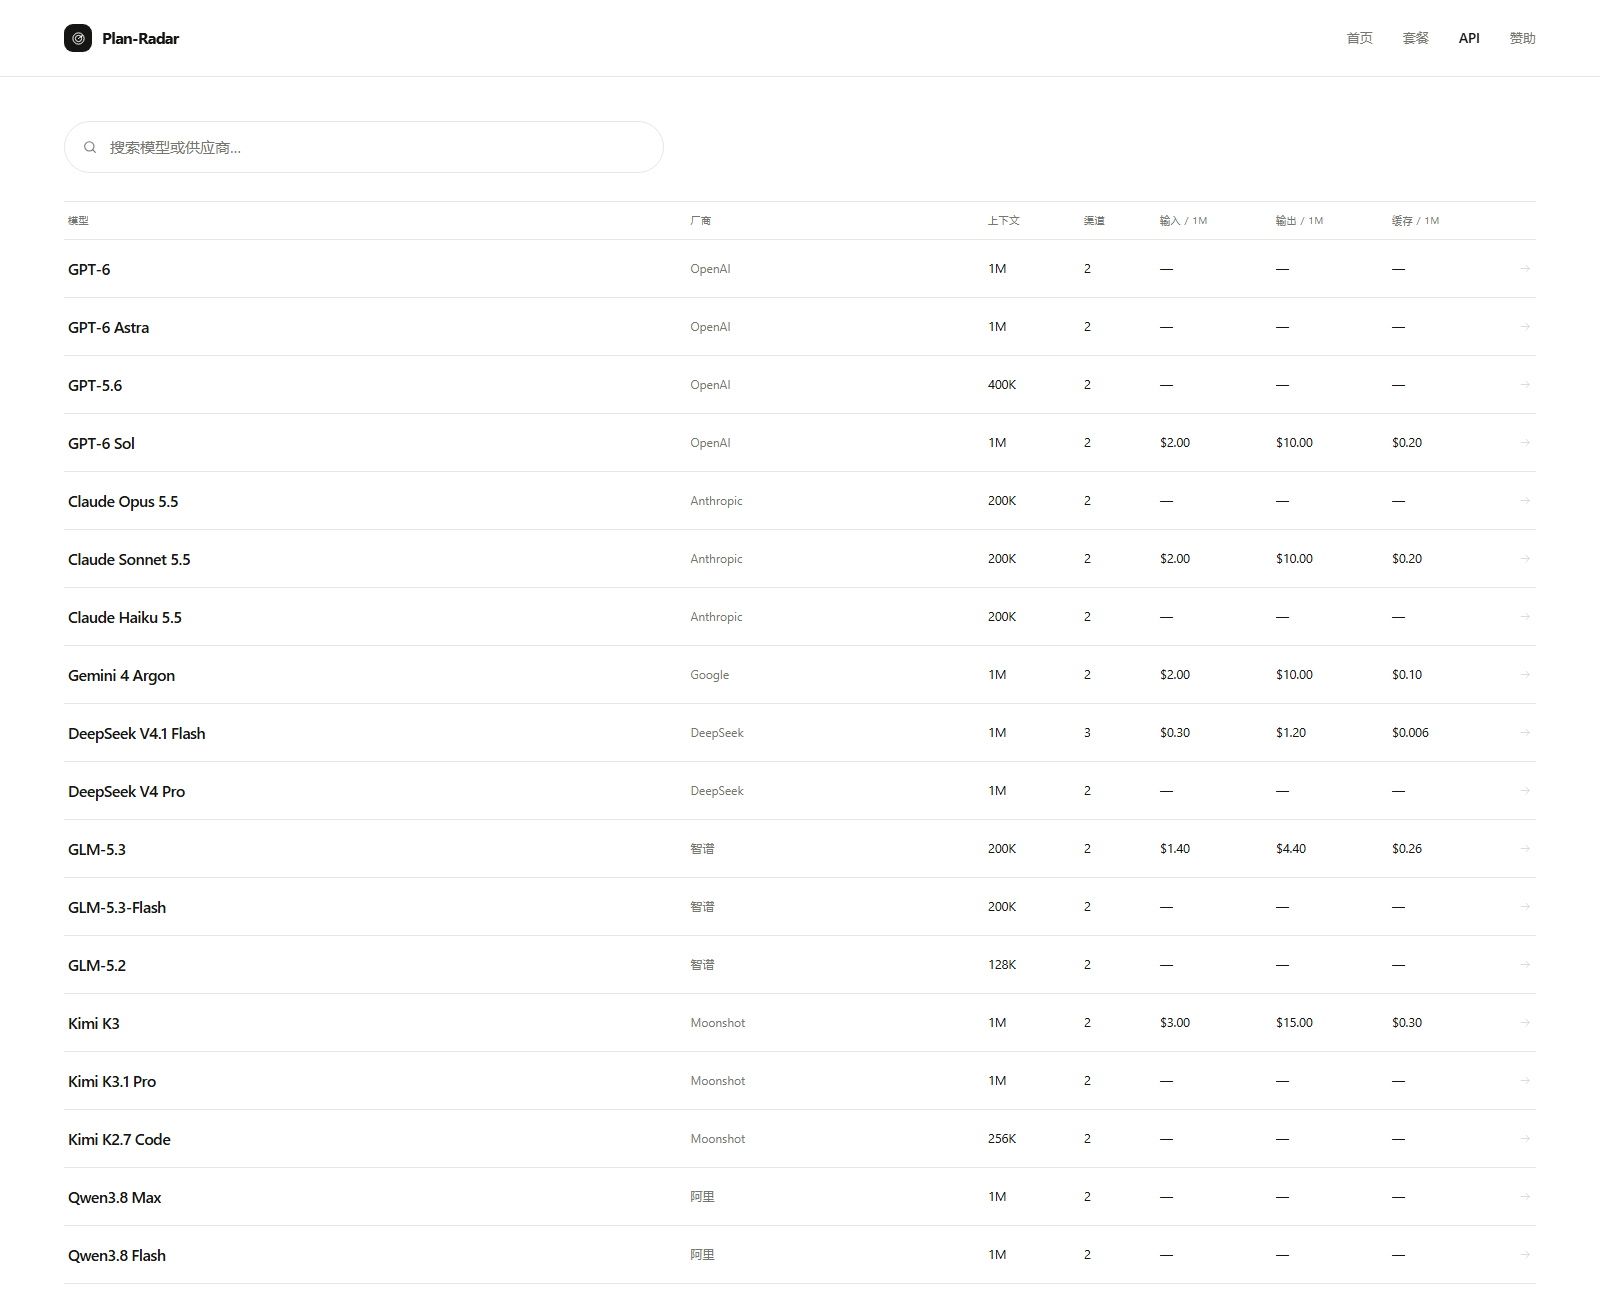
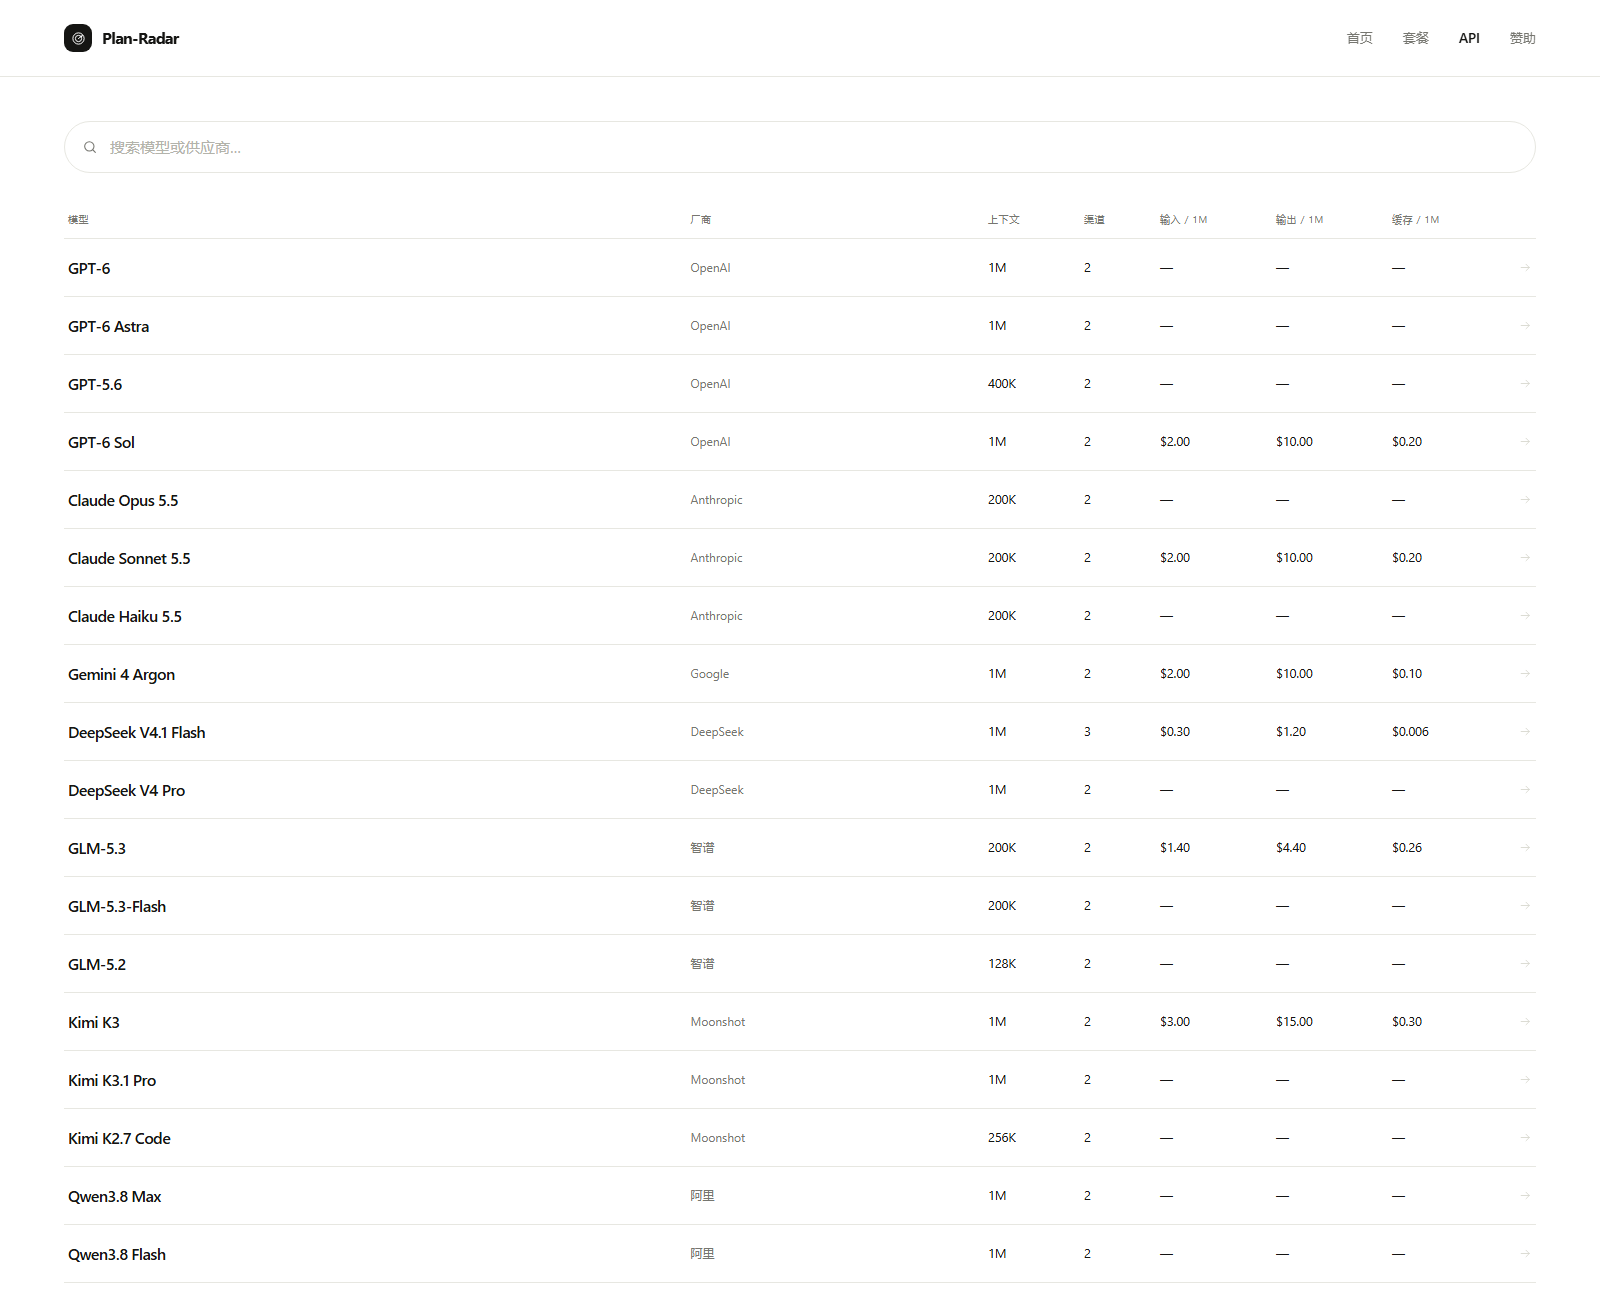
fix: table search and line

diff --git a/app/globals.css b/app/globals.css
@@ -611,6 +611,7 @@ h1, h2, h3, p { margin: 0; }
   transition: border-color 0.18s ease;
 }
 .catalog-search:focus-within { border-color: var(--ink); }
+.catalog-search-wide { width: 100%; max-width: none; }
 .catalog-search input {
   flex: 1;
   min-width: 0;
@@ -621,7 +622,7 @@ h1, h2, h3, p { margin: 0; }
   font-size: 15px;
   color: var(--ink);
 }
-.catalog-search input::placeholder { color: var(--muted); }
+.catalog-search input::placeholder { color: #b3b3ab; }
 .catalog-search input::-webkit-search-cancel-button { display: none; }
 .catalog-clear {
   display: grid;
@@ -699,7 +700,7 @@ h1, h2, h3, p { margin: 0; }
 }
 
 .model-table-wrap { margin-top: 28px; overflow-x: auto; }
-.model-table { min-width: 860px; border-top: 1px solid var(--line); }
+.model-table { min-width: 860px; }
 .model-table-plans { min-width: 860px; }
 .model-table-head,
 .model-row {

diff --git a/components/ModelTable.tsx b/components/ModelTable.tsx
@@ -33,7 +33,7 @@ export function ModelTable({ rows, mode }: ModelTableProps) {
   return (
     <>
       <div className="catalog-top catalog-top-left">
-        <div className="catalog-search">
+        <div className="catalog-search catalog-search-wide">
           <Icon name="search" />
           <input
             type="search"
